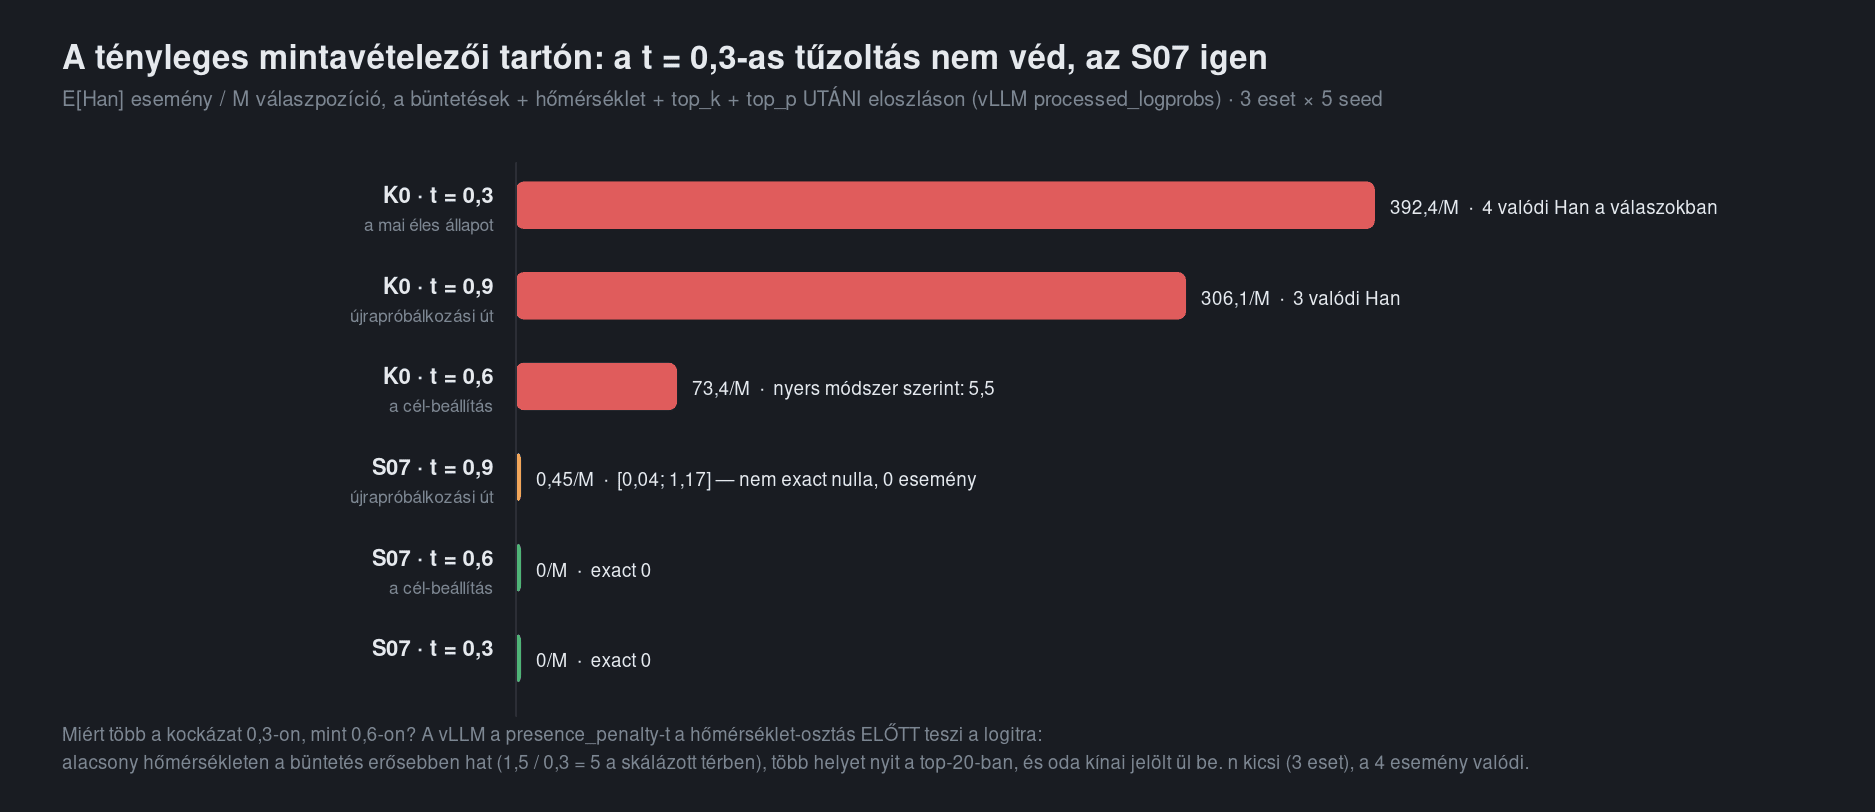
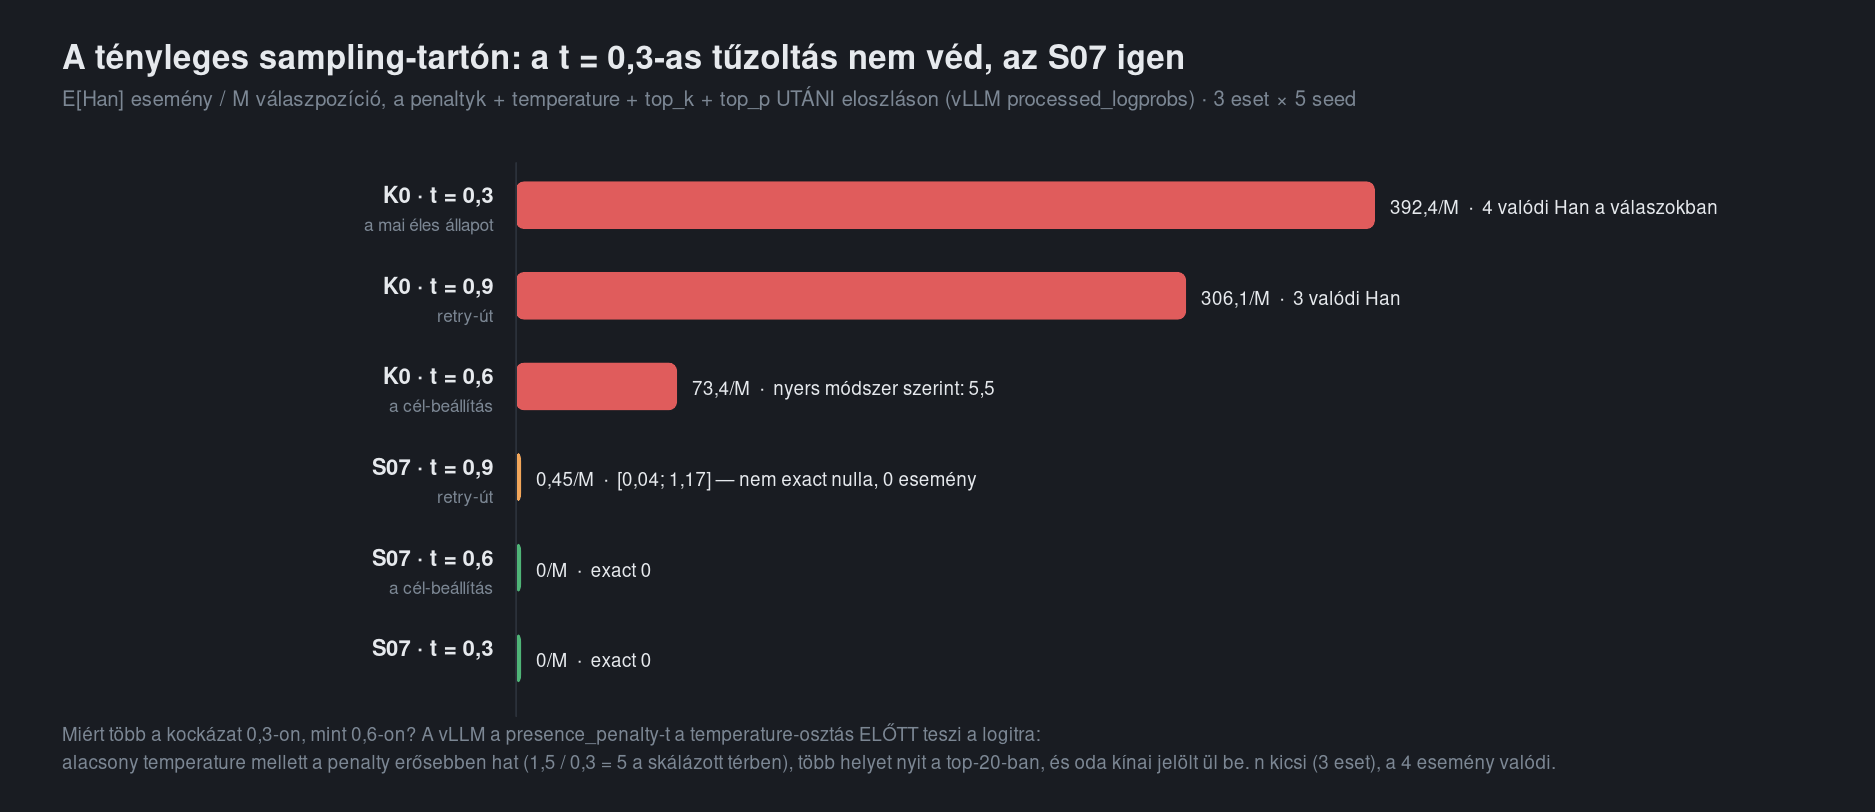
Update README.hu.md with self-check results and clarify measurement conclusions

diff --git a/experiments/2026-09-18-cjk-damping-dose-response-gb10/protocol/README.hu.md b/experiments/2026-09-18-cjk-damping-dose-response-gb10/protocol/README.hu.md
@@ -82,6 +82,7 @@ a runbook §9 szerint a motorbuild önmagában többet mozdít, mint a folt.
 | **F3 B) `S07` megerősítés** | ✅ 3 friss példány, 15 seed, 3 profil, párhuzamos köteg, 150 irat: **0 Han bárhol**; csapda prod-profilon `S07` = `K0` (146/150), pontban jobb |
 | **F3 C) S08 / S09 / S06** | ✅ (13:02) az ablak két széle: kínai **S ≥ 0,7-ig ép**, 0,6-on 55,6 %; Han exact 0 a prod-úton **S ≤ 0,8-ig**, S09 szivárog → **`S* = S07`** marad, a költség-lépcső szélén |
 | prod-próba `S07 @ 0,6`-tal | ✅ **javasolható** — a döntési szabály mindhárom feltétele teljesül; a felhasználó dönt |
+| ⛔ **önellenőrzés a lezárás után** | ✅ (2026-09-20) a táblák számai független újraszámolással egyeznek; négy javítás ([F3-naplo.md](jegyzokonyv/F3-naplo.md) §6): a számító kihagyta a végső válasz nélküli rekordokat (`S07` így is 0 Han ~1,09 M pozíción; a `K0`-nál egy **6 593 Han-tokenes** elszabadulás maradt rejtve), az újrapróbálkozási profil folttól függetlenül degenerál (2/15), a 0,45/M alsó korlát, a „~10×" pontbecslés-hányados |
 | **F4 — HF-csomag, publikus mérési könyvtár, tanulmány, cikk** | ✅ **kész** (2026-09-20) — `hf-release/`, `docai-evals/experiments/2026-09-18-cjk-damping-dose-response-gb10/`, `/kutatas/cjk-csillapitas`, blog HU+EN; **a feltöltés és a commitok a felhasználóé** |
 
 **Ami a felhasználóé:** (a) a HF-feltöltés a mérőgépről:
@@ -90,7 +91,6 @@ a runbook §9 szerint a motorbuild önmagában többet mozdít, mint a folt.
 2 index, 6 kép) repóban, utána `php artisan sitemap:generate`; (c) a prod-próba `S07 @ 0,6`.
 
 A mérés lezárult; a measurement-hosten nem fut semmi. A HF-csomag: `~/experiments/2026-09-18-cjk-csillapitas/hf-release/`.
-(és `STATUS-KAR`).
 
 ## Ami eldőlt, és ami még nem
 
@@ -112,9 +112,11 @@ A részletek a jegyzőkönyvben; a három legfontosabb:
    itemen a PASS/FAIL-t is megfordítja a sorossal szemben — akkora hatás, mint amit mérni
    akarunk, tehát **konfundál**. A mérőpad ezért sorosra állt, és mivel a soros dekódolás
    bitre reprodukálható, ez **nem került többe**: 450 kérés/kar helyett 150, ~108 perc
-   helyett ~46. Mellékhatásként a korábban „műszerzajnak" hitt **2,00 pp** is a
-   párhuzamosításé volt — ha a soros determinizmus a teljes korpuszon igazolódik, a
-   −1,33 pp-os margó újra használható.
+   helyett ~46. ⛔ Utólag: a soros mérés egy példányon belül bájtra reprodukálható, de
+   **friss példányok között nem** (2–5 item / 150, diszkrét numerika-módok) — a zaj tehát
+   nem csak a párhuzamosításé volt; ld. [F1-naplo.md](jegyzokonyv/F1-naplo.md) §8.
 
-Ami még nem dőlt el: minden, ami a karok tényleges méréséből jön — a dózis-hatás görbe,
-az `S*`, a H1–H6 verdiktje és a publikálási döntés.
+Ami azóta eldőlt: a dózis-hatás két lépcső, `S* = S07`, a H1–H6 verdiktje az
+[F2-naplo.md](jegyzokonyv/F2-naplo.md) §3-ban, a prod-próba javasolható. Ami nyitva maradt:
+az `S08` a tényleges tartón, egy pont S = 0,6 és 0,7 között, a kanji/hanja próba, és az
+újrapróbálkozási profil (`t=0,9 / top_p=1,0`) degenerációja — ez utóbbi nem a folt kérdése.
